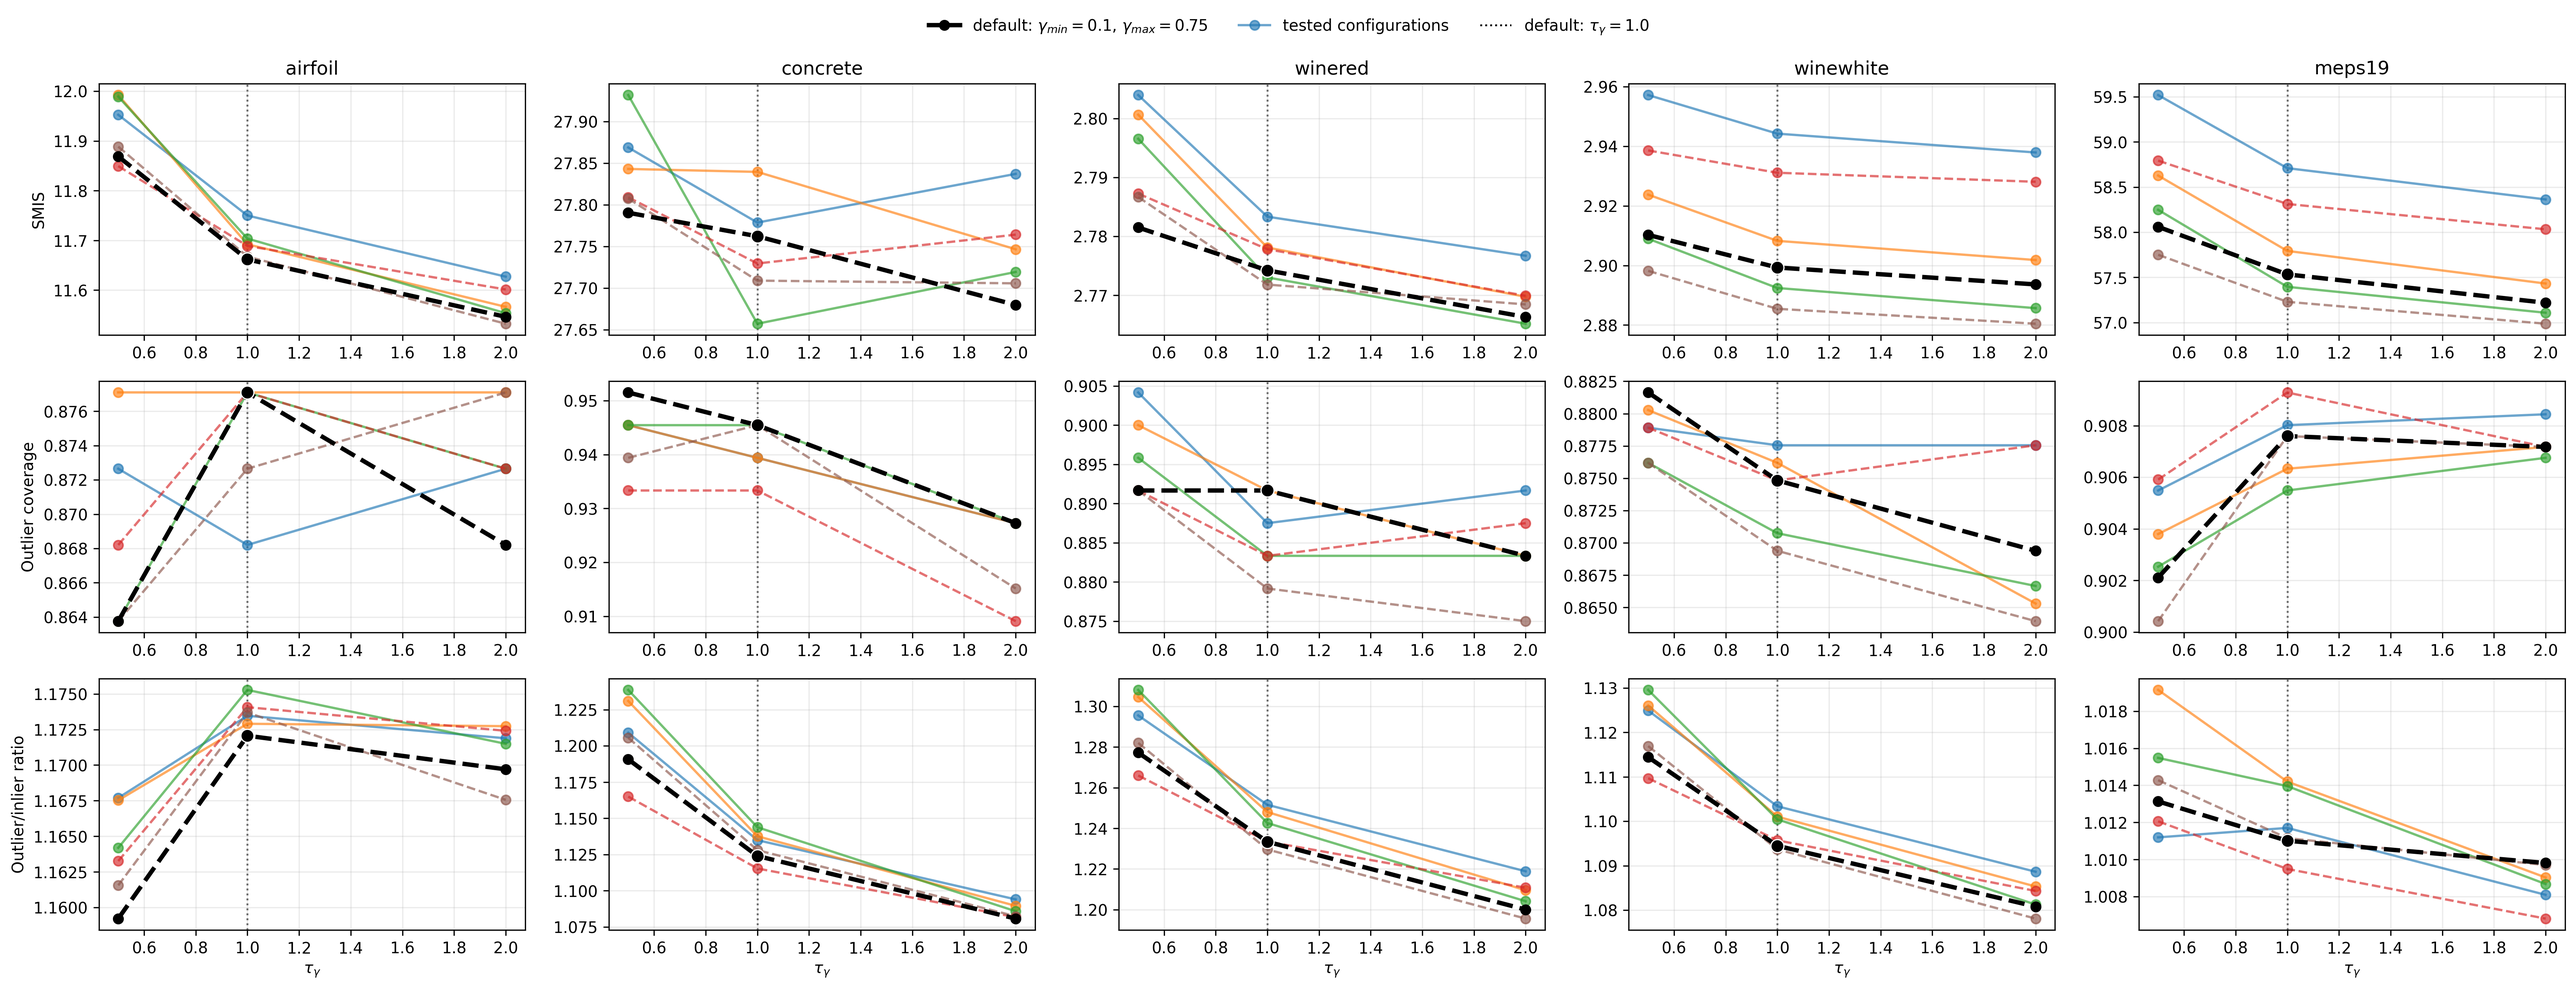
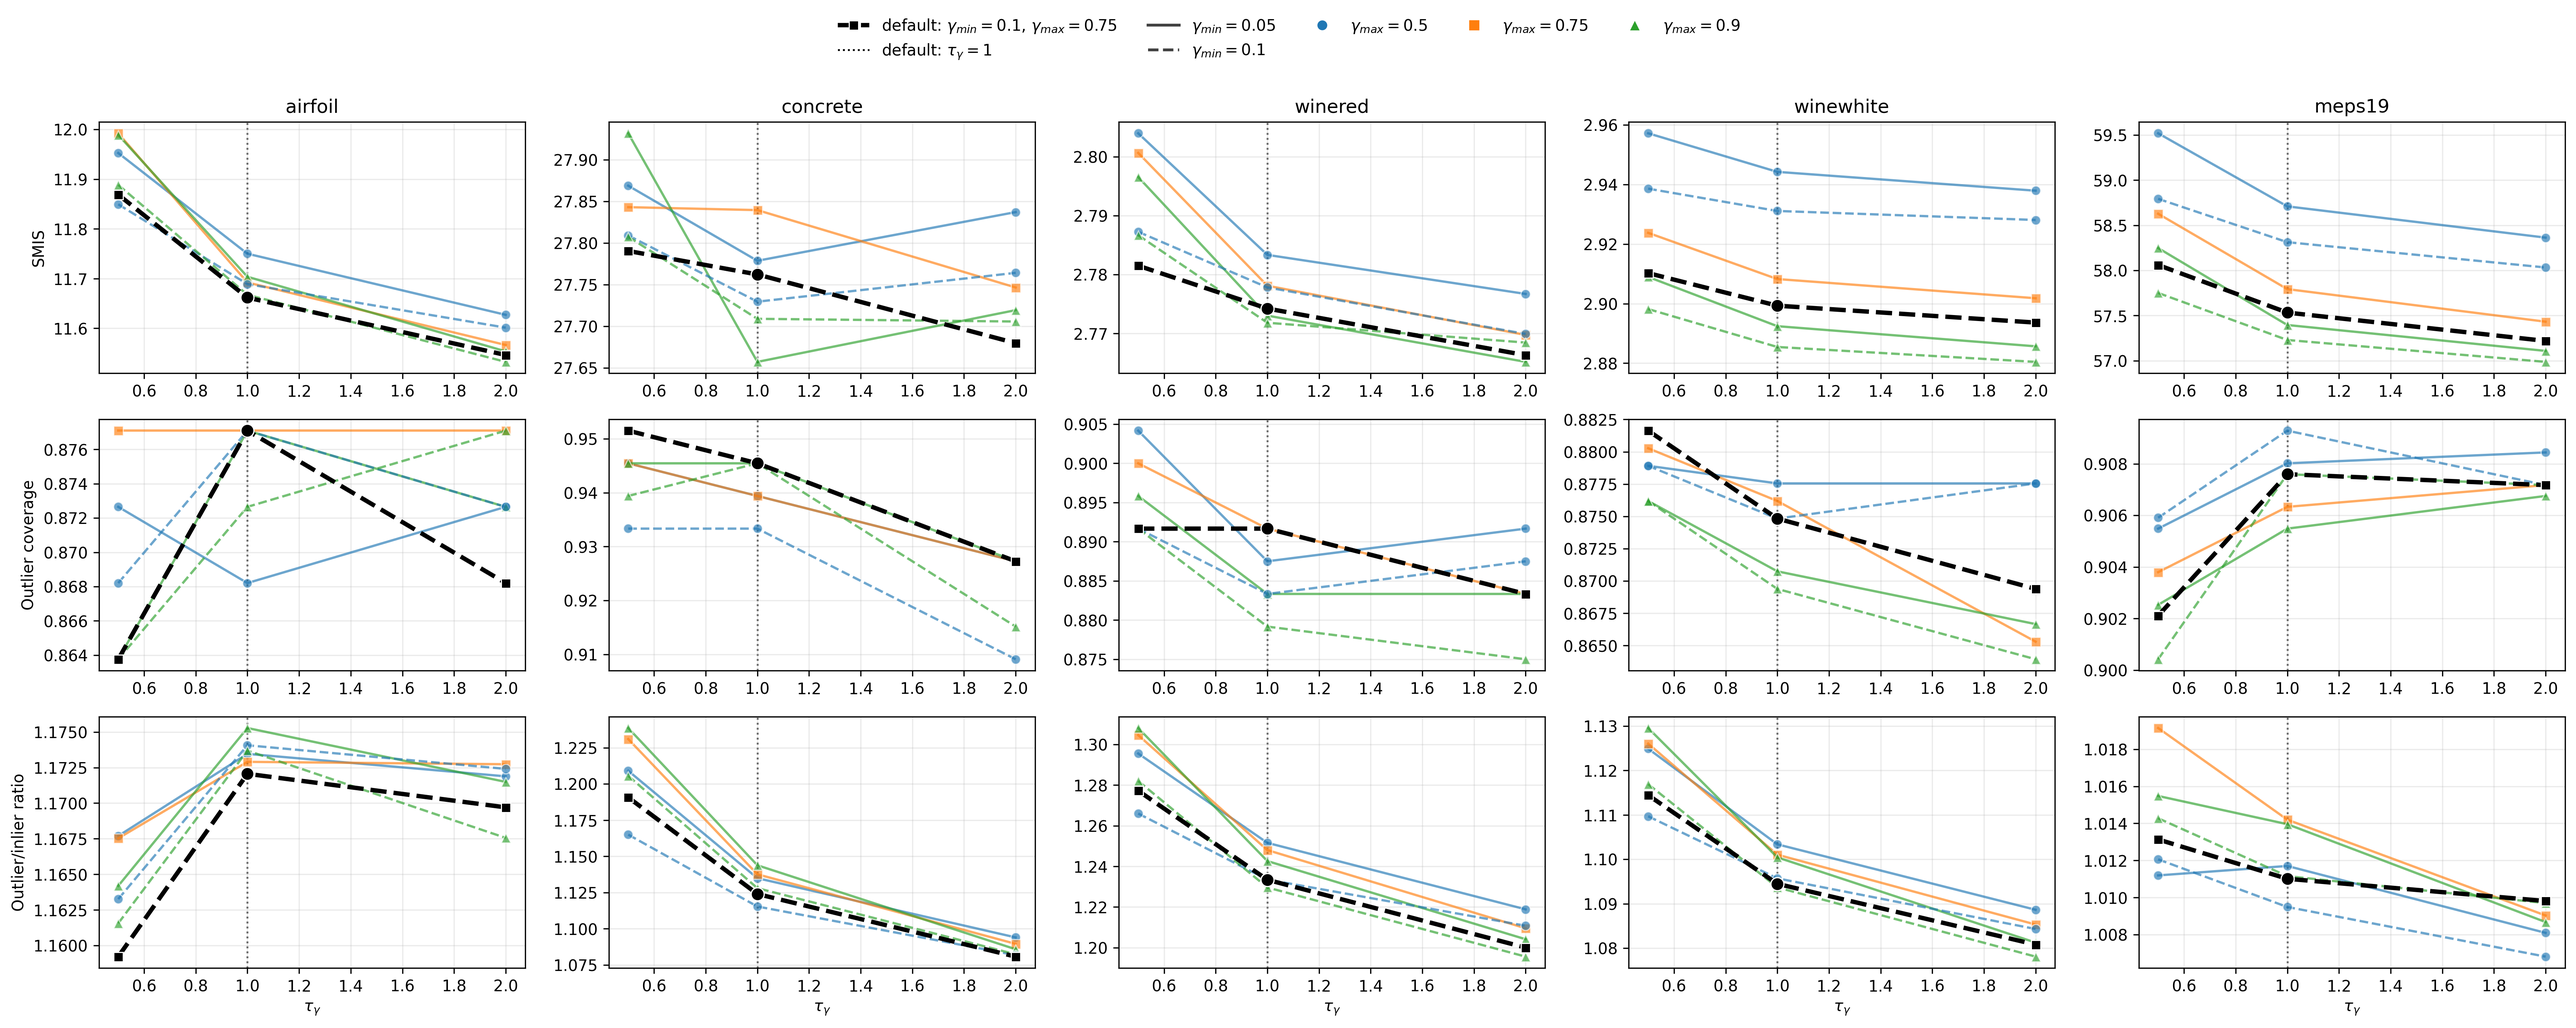
updating ablation curves

diff --git a/comparisons/plot_gamma_ablation.py b/comparisons/plot_gamma_ablation.py
@@ -179,6 +179,26 @@ def plot_adaptive(datasets):
         axes = np.asarray(axes).reshape(len(METRICS), 1)
 
     colors = plt.rcParams["axes.prop_cycle"].by_key()["color"]
+    all_gamma_min = np.array(
+        sorted({value for df in summaries.values() for value in df["gamma_min"].dropna().unique()})
+    )
+    all_gamma_max = np.array(
+        sorted({value for df in summaries.values() for value in df["gamma_max"].dropna().unique()})
+    )
+    line_styles = ["-", "--", ":", "-."]
+    markers = ["o", "s", "^", "D", "P", "X"]
+    gamma_min_style = {
+        value: line_styles[idx % len(line_styles)]
+        for idx, value in enumerate(all_gamma_min)
+    }
+    gamma_max_marker = {
+        value: markers[idx % len(markers)]
+        for idx, value in enumerate(all_gamma_max)
+    }
+    gamma_max_color = {
+        value: colors[idx % len(colors)]
+        for idx, value in enumerate(all_gamma_max)
+    }
 
     for col, (dataset, df) in enumerate(summaries.items()):
         df = df.sort_values(["gamma_min", "gamma_max", "tau_gamma"])
@@ -196,16 +216,19 @@ def plot_adaptive(datasets):
                     np.isclose(gamma_min, DEFAULT_ADAPTIVE_GAMMA_MIN)
                     and np.isclose(gamma_max, DEFAULT_ADAPTIVE_GAMMA_MAX)
                 )
-                color = colors[config_idx % len(colors)]
-                linestyle = "-" if gamma_min == min(df["gamma_min"]) else "--"
+                color = gamma_max_color[gamma_max]
+                linestyle = gamma_min_style[gamma_min]
+                marker = gamma_max_marker[gamma_max]
                 ax.plot(
                     x,
                     y,
-                    marker="o",
+                    marker=marker,
                     linewidth=2.8 if is_default_pair else 1.5,
                     linestyle=linestyle,
                     color="black" if is_default_pair else color,
                     alpha=1.0 if is_default_pair else 0.65,
+                    markeredgecolor="white",
+                    markeredgewidth=0.7,
                     zorder=4 if is_default_pair else 2,
                 )
                 if is_default_pair and x.min() <= DEFAULT_ADAPTIVE_TAU <= x.max():
@@ -238,22 +261,59 @@ def plot_adaptive(datasets):
                 ax.set_xlabel(r"$\tau_\gamma$")
 
     handles = [
-        Line2D([0], [0], color="black", linewidth=2.8, marker="o"),
-        Line2D([0], [0], color="C0", linewidth=1.5, marker="o", alpha=0.65),
+        Line2D(
+            [0],
+            [0],
+            color="black",
+            linewidth=2.8,
+            linestyle=gamma_min_style.get(DEFAULT_ADAPTIVE_GAMMA_MIN, "-"),
+            marker=gamma_max_marker.get(DEFAULT_ADAPTIVE_GAMMA_MAX, "o"),
+            markerfacecolor="black",
+            markeredgecolor="white",
+            markeredgewidth=0.7,
+        ),
         Line2D([0], [0], color="black", linestyle=":", linewidth=1.2),
     ]
     labels = [
-        r"default: $\gamma_{min}=0.1$, $\gamma_{max}=0.75$",
-        "tested configurations",
-        r"default: $\tau_\gamma=1.0$",
+        rf"default: $\gamma_{{min}}={format_gamma(DEFAULT_ADAPTIVE_GAMMA_MIN)}$, "
+        rf"$\gamma_{{max}}={format_gamma(DEFAULT_ADAPTIVE_GAMMA_MAX)}$",
+        rf"default: $\tau_\gamma={format_gamma(DEFAULT_ADAPTIVE_TAU)}$",
     ]
+
+    for value in all_gamma_min:
+        handles.append(
+            Line2D(
+                [0],
+                [0],
+                color="0.25",
+                linewidth=1.8,
+                linestyle=gamma_min_style[value],
+            )
+        )
+        labels.append(rf"$\gamma_{{min}}={format_gamma(value)}$")
+
+    for value in all_gamma_max:
+        handles.append(
+            Line2D(
+                [0],
+                [0],
+                color=gamma_max_color[value],
+                linewidth=0,
+                marker=gamma_max_marker[value],
+                markersize=7,
+                markeredgecolor="white",
+                markeredgewidth=0.7,
+            )
+        )
+        labels.append(rf"$\gamma_{{max}}={format_gamma(value)}$")
+
     fig.legend(
         handles,
         labels,
         loc="upper center",
-        ncol=3,
+        ncol=min(5, len(handles)),
         frameon=False,
-        bbox_to_anchor=(0.5, 1.04),
+        bbox_to_anchor=(0.5, 1.08),
     )
     finish_figure(fig, f"gamma_adaptive_ablation_curves_{dataset_suffix(list(summaries.keys()))}")
 

diff --git a/comparisons/gamma_ablation.py b/comparisons/gamma_ablation.py
@@ -392,7 +392,7 @@ def parse_args():
     parser.add_argument(
         "--gamma_min_grid",
         type=parse_float_grid,
-        default=parse_float_grid("0.05,0.1"),
+        default=parse_float_grid("0.01, 0.05,0.1"),
     )
     parser.add_argument(
         "--gamma_max_grid",
